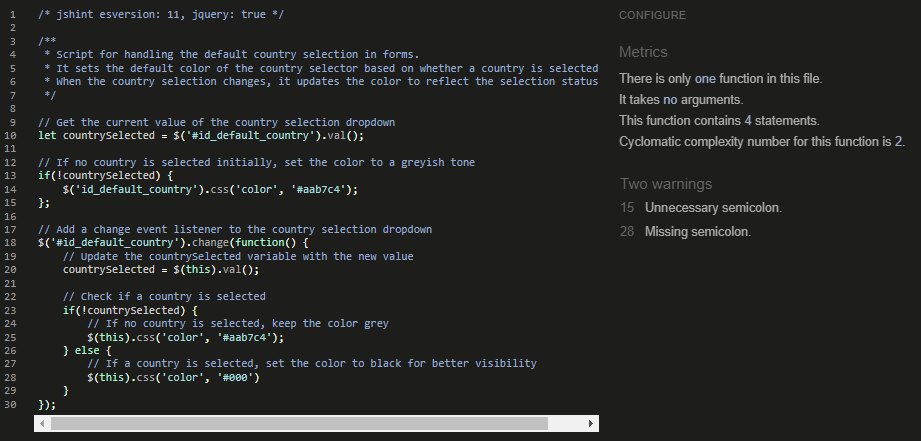
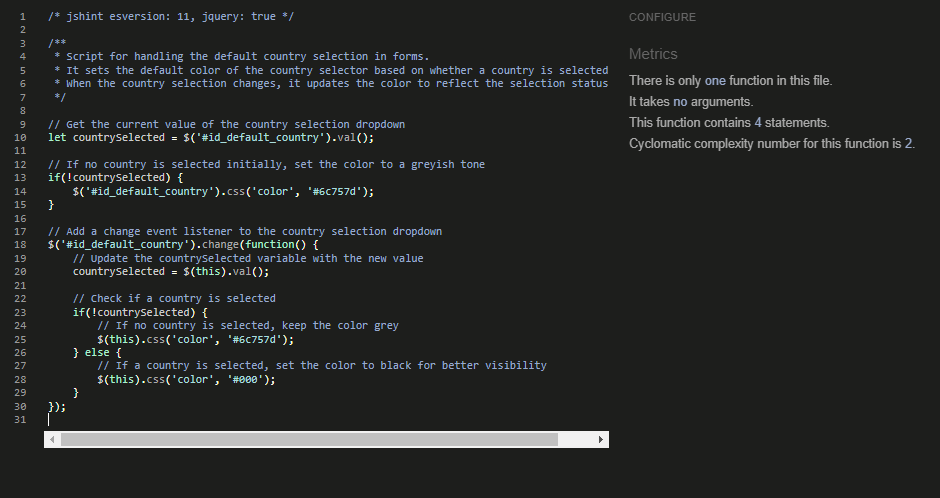
Ensure Validation across all files

Changed region(s): [[0.0, 0.0, 0.9729, 1.0], [0.6688, 0.4127, 0.8512, 0.5601], [0.6688, 0.0295, 0.7296, 0.059]]

diff --git a/profiles/static/profiles/js/countryfield.js b/profiles/static/profiles/js/countryfield.js
@@ -12,7 +12,7 @@ let countrySelected = $('#id_default_country').val();
 // If no country is selected initially, set the color to a greyish tone
 if(!countrySelected) {
     $('#id_default_country').css('color', '#6c757d');
-};
+}
 
 // Add a change event listener to the country selection dropdown
 $('#id_default_country').change(function() {
@@ -25,6 +25,6 @@ $('#id_default_country').change(function() {
         $(this).css('color', '#6c757d');
     } else {
         // If a country is selected, set the color to black for better visibility
-        $(this).css('color', '#000') 
+        $(this).css('color', '#000');
     }
 });

diff --git a/checkout/static/checkout/js/stripe_elements.js b/checkout/static/checkout/js/stripe_elements.js
@@ -1,4 +1,5 @@
 /* jshint esversion: 11, jquery: true */
+/* globals Stripe */
 
 /*
     Core logic/payment flow for this comes from here:

diff --git a/profiles/views.py b/profiles/views.py
@@ -45,14 +45,17 @@ def profile(request):
     # Renders the profile template with the given context.
     return render(request, template, context)
 
+
 @login_required
 def delete_profile(request):
     """Allows a user to delete their profile."""
     if request.method == "POST":
         user = request.user
-        user.delete()  # deletes the User and related UserProfile due to CASCADE
+        # delete the User and related UserProfile due to CASCADE
+        user.delete()
         logout(request)
-        messages.success(request, "Your profile has been deleted successfully.")
+        messages.success(
+            request, "Your profile has been deleted successfully.")
         return redirect(reverse('home'))  # Redirect to homepage
     else:
         return render(request, 'profiles/delete_profile_confirm.html')

diff --git a/sales_stats/views.py b/sales_stats/views.py
@@ -139,12 +139,14 @@ def manage_orders(request):
     # Adjusting start_date to beginning of the day
     if start_date:
         start_date = parse_date(start_date)
-        start_date = timezone.make_aware(datetime.combine(start_date, datetime.min.time()))
+        start_date = timezone.make_aware(
+                datetime.combine(start_date, datetime.min.time()))
 
     # Adjusting end_date to include the entire day up to 23:59:59
     if end_date:
         end_date = parse_date(end_date)
-        end_date = timezone.make_aware(datetime.combine(end_date, datetime.max.time()))
+        end_date = timezone.make_aware(
+                datetime.combine(end_date, datetime.max.time()))
 
     # Apply filters if values are provided
     if order_number:

diff --git a/TESTING.md b/TESTING.md
@@ -187,7 +187,6 @@ I have used [Python Linter](https://pep8ci.herokuapp.com/) (Provided by CodeInst
 ||models.py|[View](https://pep8ci.herokuapp.com/https://raw.githubusercontent.com/Jaycode88/ecofriendlynetwork/main/sales_stats/models.py)|![Results](documentation/pepsalesmodels.webp)|
 ||forms.py|[View](https://pep8ci.herokuapp.com/https://raw.githubusercontent.com/Jaycode88/ecofriendlynetwork/main/sales_stats/forms.py)|![Results](documentation/pepsalesforms.webp)|
 ||apps.py|[View](https://pep8ci.herokuapp.com/https://raw.githubusercontent.com/Jaycode88/ecofriendlynetwork/main/sales_stats/apps.py)|![Results](documentation/pepsalesapps.webp)|
-||admin.py|[View](https://pep8ci.herokuapp.com/https://raw.githubusercontent.com/Jaycode88/ecofriendlynetwork/main/sales_stats/admin.py)|![Results](documentation/pepsalesadmin.webp)|
 ||tests.py|[View](https://pep8ci.herokuapp.com/https://raw.githubusercontent.com/Jaycode88/ecofriendlynetwork/main/sales_stats/tests.py)|![Results](documentation/pepsalestests.webp)|
 **Checkout**
 ||webhooks.py|[View](https://pep8ci.herokuapp.com/https://raw.githubusercontent.com/Jaycode88/ecofriendlynetwork/main/checkout/webhooks.py)|![Results](documentation/pepcheckwebhooks.webp)|
@@ -207,7 +206,7 @@ I have used [Python Linter](https://pep8ci.herokuapp.com/) (Provided by CodeInst
 ||forms.py|[View](https://pep8ci.herokuapp.com/https://raw.githubusercontent.com/Jaycode88/ecofriendlynetwork/main/blog/forms.py)|![Results](documentation/pepblogforms.webp)|
 ||apps.py|[View](https://pep8ci.herokuapp.com/https://raw.githubusercontent.com/Jaycode88/ecofriendlynetwork/main/blog/apps.py)|![Results](documentation/pepblogapps.webp)|
 ||admin.py|[View](https://pep8ci.herokuapp.com/https://raw.githubusercontent.com/Jaycode88/ecofriendlynetwork/main/blog/admin.py)|![Results](documentation/pepblogadmin.webp)|
-||tests.py|[View](https://pep8ci.herokuapp.com/https://raw.githubusercontent.com/Jaycode88/ecofriendlynetwork/main/blog/tests.py)|![Results]()|
+||tests.py|[View](https://pep8ci.herokuapp.com/https://raw.githubusercontent.com/Jaycode88/ecofriendlynetwork/main/blog/tests.py)|![Results](documentation/pepblogtests.webp)|
 **bag**
 ||views.py|[View](https://pep8ci.herokuapp.com/https://raw.githubusercontent.com/Jaycode88/ecofriendlynetwork/main/bag/views.py)|![Results](documentation/pepbagviews.webp)|
 ||urls.py|[View](https://pep8ci.herokuapp.com/https://raw.githubusercontent.com/Jaycode88/ecofriendlynetwork/main/bag/urls.py)|![Results](documentation/pepbagurls.webp)|
